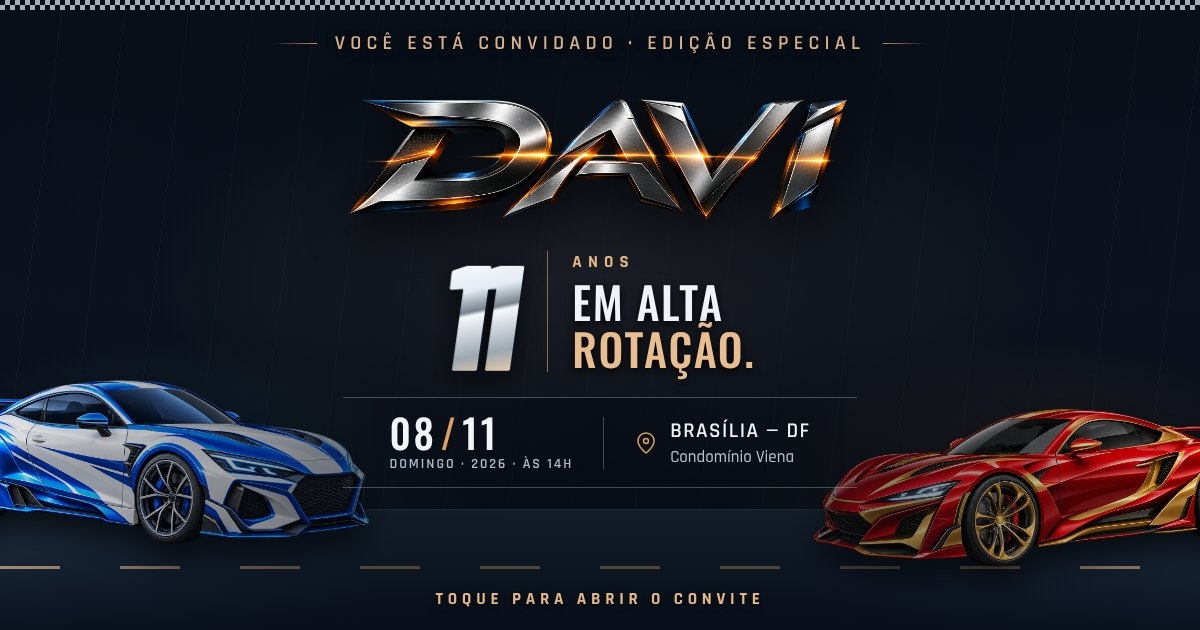
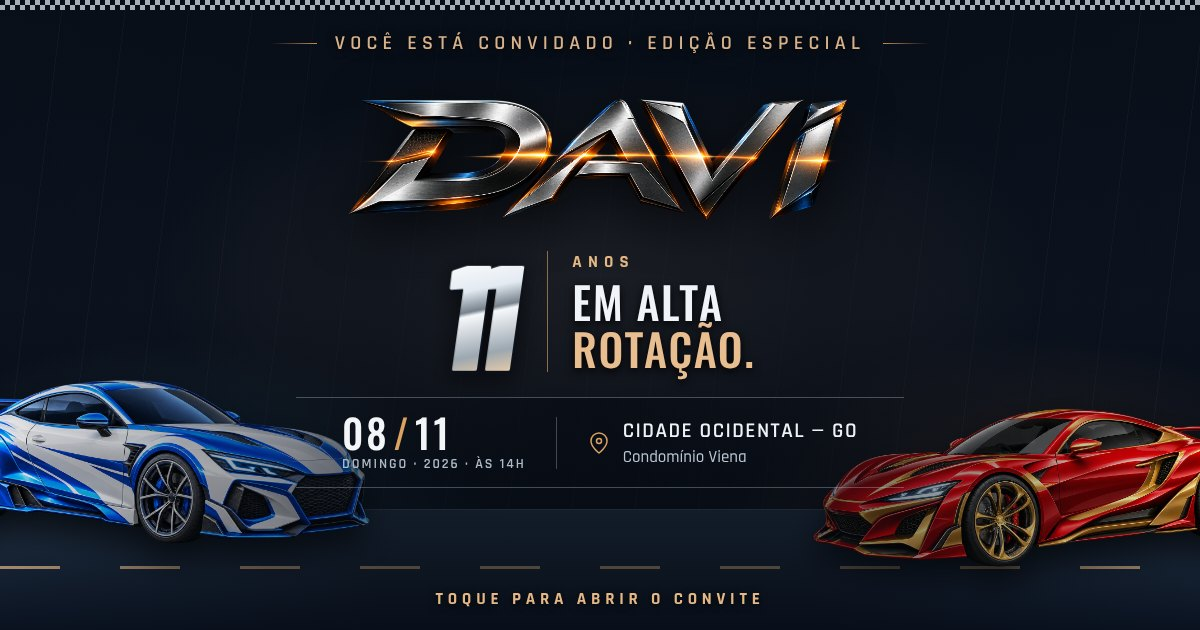
Endereco Cidade Ocidental - GO, frase da mae no topo, sem Modo piloto

Changed region(s): [[0.2775, 0.6635, 0.4933, 0.754], [0.4933, 0.6635, 0.7092, 0.754]]

diff --git a/index.html b/index.html
@@ -4,24 +4,24 @@
 <meta charset="utf-8">
 <meta name="viewport" content="width=device-width, initial-scale=1, viewport-fit=cover">
 <title>Convite do Davi</title>
-<meta name="description" content="Domingo, 08/11, às 14h · Condomínio Viena, Brasília – DF. Toque para ver o convite do Davi e confirmar presença.">
+<meta name="description" content="Domingo, 08/11, às 14h · Condomínio Viena, Cidade Ocidental – GO. Toque para ver o convite do Davi e confirmar presença.">
 <meta property="og:type" content="website">
 <meta property="og:site_name" content="Convite do Davi">
 <meta property="og:locale" content="pt_BR">
-<meta property="og:url" content="https://convite-davi-11-anos.pages.dev/">
 <meta property="og:title" content="Davi faz 11 anos e você está convidado!">
-<meta property="og:description" content="Domingo, 08/11, às 14h · Condomínio Viena, Brasília – DF. Toque para ver o convite e confirmar presença.">
-<meta property="og:image" content="https://convite-davi-11-anos.pages.dev/og-banner.jpg">
-<meta property="og:image:secure_url" content="https://convite-davi-11-anos.pages.dev/og-banner.jpg">
+<meta property="og:description" content="Domingo, 08/11, às 14h · Condomínio Viena, Cidade Ocidental – GO. Toque para ver o convite e confirmar presença.">
+<meta property="og:image" content="https://convite-davi-11-anos.pages.dev/og-banner.jpg?v=3">
+<meta property="og:image:secure_url" content="https://convite-davi-11-anos.pages.dev/og-banner.jpg?v=3">
 <meta property="og:image:type" content="image/jpeg">
 <meta property="og:image:width" content="1200">
 <meta property="og:image:height" content="630">
-<meta property="og:image:alt" content="Convite do Davi, 11 anos: domingo 08/11 às 14h em Brasília">
+<meta property="og:image:alt" content="Convite do Davi, 11 anos: domingo 08/11 às 14h em Cidade Ocidental – GO">
 <meta name="twitter:card" content="summary_large_image">
 <meta name="twitter:title" content="Davi faz 11 anos e você está convidado!">
-<meta name="twitter:description" content="Domingo, 08/11, às 14h · Brasília – DF. Toque para ver o convite.">
-<meta name="twitter:image" content="https://convite-davi-11-anos.pages.dev/og-banner.jpg">
+<meta name="twitter:description" content="Domingo, 08/11, às 14h · Cidade Ocidental – GO. Toque para ver o convite.">
+<meta name="twitter:image" content="https://convite-davi-11-anos.pages.dev/og-banner.jpg?v=3">
 <meta name="theme-color" content="#0A0F1E">
+<link rel="image_src" href="https://convite-davi-11-anos.pages.dev/og-banner.jpg?v=3">
 <meta name="claude:viewport-fit-sides" content="cover">
 <link rel="preconnect" href="https://fonts.googleapis.com">
 <link rel="preconnect" href="https://fonts.gstatic.com" crossorigin>
@@ -94,6 +94,10 @@ button{font:inherit;cursor:pointer}
 .edition-title{font-family:'Oswald','Arial Narrow',sans-serif;font-weight:500;font-size:34px;line-height:1.08;letter-spacing:.035em;color:#F0F3F7;text-shadow:0 3px 9px #000}
 .edition-title span{color:#E8BD8F}
 .hero-invite{margin-top:25px;color:#D6DEE8;font-size:17px;font-weight:500;letter-spacing:.035em;text-shadow:0 2px 7px #000}
+.hero-story{max-width:34rem;margin-top:26px;display:flex;flex-direction:column;gap:12px;text-align:center;text-wrap:balance}
+.hero-story-lead{color:#EEF2F7;font-size:21px;line-height:1.4;font-weight:600;letter-spacing:.01em;text-shadow:0 2px 8px #000}
+.hero-story-lead strong{color:#E8BD8F;font-weight:700}
+.hero-story-invite{font-family:'Oswald','Arial Narrow',sans-serif;font-weight:500;font-size:22px;line-height:1.25;letter-spacing:.03em;color:#FFB25C;text-shadow:0 2px 10px rgba(0,0,0,.9),0 0 18px rgba(255,138,0,.25)}
 .event-strip{display:flex;align-items:center;justify-content:center;gap:28px;width:min(100%,440px);margin-top:26px;padding:18px 8px;border-block:1px solid rgba(197,211,224,.28);background:linear-gradient(90deg,transparent,rgba(7,12,20,.48),transparent);text-align:left}
 .event-date{display:flex;flex-direction:column;gap:3px}
 .event-date b{font-family:'Oswald',sans-serif;font-size:31px;line-height:1;font-weight:500;letter-spacing:.07em;color:#F3F6F9}
@@ -227,6 +231,9 @@ footer p{color:var(--muted)}
   .edition-title{font-size:29px}
   .edition-label{font-size:10px;letter-spacing:.3em}
   .hero-invite{font-size:15px;margin-top:23px}
+  .hero-story{margin-top:22px;gap:10px}
+  .hero-story-lead{font-size:17.5px}
+  .hero-story-invite{font-size:19px}
   .event-strip{gap:19px;padding:16px 0;margin-top:22px}
   .event-date b{font-size:28px}
   .event-date>span{font-size:9px}
@@ -272,11 +279,14 @@ footer p{color:var(--muted)}
         <p class="edition-title">EM ALTA<br><span>ROTAÇÃO.</span></p>
       </div>
     </div>
-    <p class="hero-invite">Você faz parte dessa equipe.</p>
+    <div class="hero-story">
+      <p class="hero-story-lead">Cada aniversário é uma nova aventura, e o Davi está prestes a viver uma das mais especiais: <strong>seus 11 anos!</strong> 🏎🏁</p>
+      <p class="hero-story-invite">E essa história fica ainda melhor com você fazendo parte dela!</p>
+    </div>
     <div class="event-strip">
       <time class="event-date" datetime="2026-11-08T14:00:00-03:00"><b>08<span>/</span>11</b><span>DOMINGO · 2026 · ÀS 14H</span></time>
       <span class="event-divider" aria-hidden="true"></span>
-      <p class="event-place"><svg viewBox="0 0 24 24" fill="none" stroke-width="1.5" aria-hidden="true"><path d="M20 10c0 6-8 12-8 12S4 16 4 10a8 8 0 1 1 16 0Z"/><circle cx="12" cy="10" r="2.5"/></svg><span><strong>BRASÍLIA — DF</strong><small>Condomínio Viena</small></span></p>
+      <p class="event-place"><svg viewBox="0 0 24 24" fill="none" stroke-width="1.5" aria-hidden="true"><path d="M20 10c0 6-8 12-8 12S4 16 4 10a8 8 0 1 1 16 0Z"/><circle cx="12" cy="10" r="2.5"/></svg><span><strong>CIDADE OCIDENTAL — GO</strong><small>Condomínio Viena</small></span></p>
     </div>
     <a class="hero-scroll" href="#contagem">VEJA OS DETALHES<svg viewBox="0 0 20 20" fill="none" stroke-width="1.5" aria-hidden="true"><path d="M10 2v15M4 11l6 6 6-6"/></svg></a>
   </div>
@@ -331,12 +341,8 @@ footer p{color:var(--muted)}
       <article class="card card--location flip" style="animation-delay:.24s">
         <div class="badge b-p"><svg viewBox="0 0 24 24" fill="none" stroke="currentColor" stroke-width="2.4" stroke-linecap="round" stroke-linejoin="round" aria-hidden="true"><path d="M12 22s7-6.2 7-12a7 7 0 0 0-14 0c0 5.8 7 12 7 12z"></path><circle cx="12" cy="10" r="2.5"></circle></svg></div>
         <p class="lbl">Pista</p><p class="val">Condomínio Viena</p>
-        <p class="sub">Q. 113, Lote 09, Casa 7B · Parque Estrela Dalva 03 · Brasília – DF</p>
-        <a class="map" href="https://www.google.com/maps/search/?api=1&amp;query=Q.113+Lote+09+Casa+7B+Condom%C3%ADnio+Viena+Parque+Estrela+Dalva+03+Bras%C3%ADlia+DF" target="_blank" rel="noopener">Abrir no mapa →</a>
-      </article>
-      <article class="card card--uniform flip" style="animation-delay:.36s">
-        <div class="badge b-y"><svg viewBox="0 0 24 24" fill="none" stroke="currentColor" stroke-width="2.4" stroke-linecap="round" stroke-linejoin="round" aria-hidden="true"><path d="M4 15s1-1 4-1 5 2 8 2 4-1 4-1V3s-1 1-4 1-5-2-8-2-4 1-4 1z"></path><line x1="4" y1="22" x2="4" y2="15"></line></svg></div>
-        <p class="lbl">Uniforme</p><p class="val">Modo piloto</p><p class="sub">Boné, jaqueta ou camiseta de corrida</p>
+        <p class="sub">Q. 113, Lote 09, Casa 7B · Parque Estrela Dalva 03 · Cidade Ocidental – GO</p>
+        <a class="map" href="https://www.google.com/maps/search/?api=1&amp;query=Q.113+Lote+09+Casa+7B+Condom%C3%ADnio+Viena+Parque+Estrela+Dalva+03+Cidade+Ocidental+GO" target="_blank" rel="noopener">Abrir no mapa →</a>
       </article>
     </div>
   </div>
@@ -404,7 +410,7 @@ footer p{color:var(--muted)}
   <div class="check" aria-hidden="true"></div>
   <div class="wrap">
     <h2>Davi <span>· 11 anos</span></h2>
-    <p>Bandeira quadriculada no Condomínio Viena · Brasília – DF · 8 de novembro, às 14h</p>
+    <p>Bandeira quadriculada no Condomínio Viena · Cidade Ocidental – GO · 8 de novembro, às 14h</p>
   </div>
 </footer>
 
